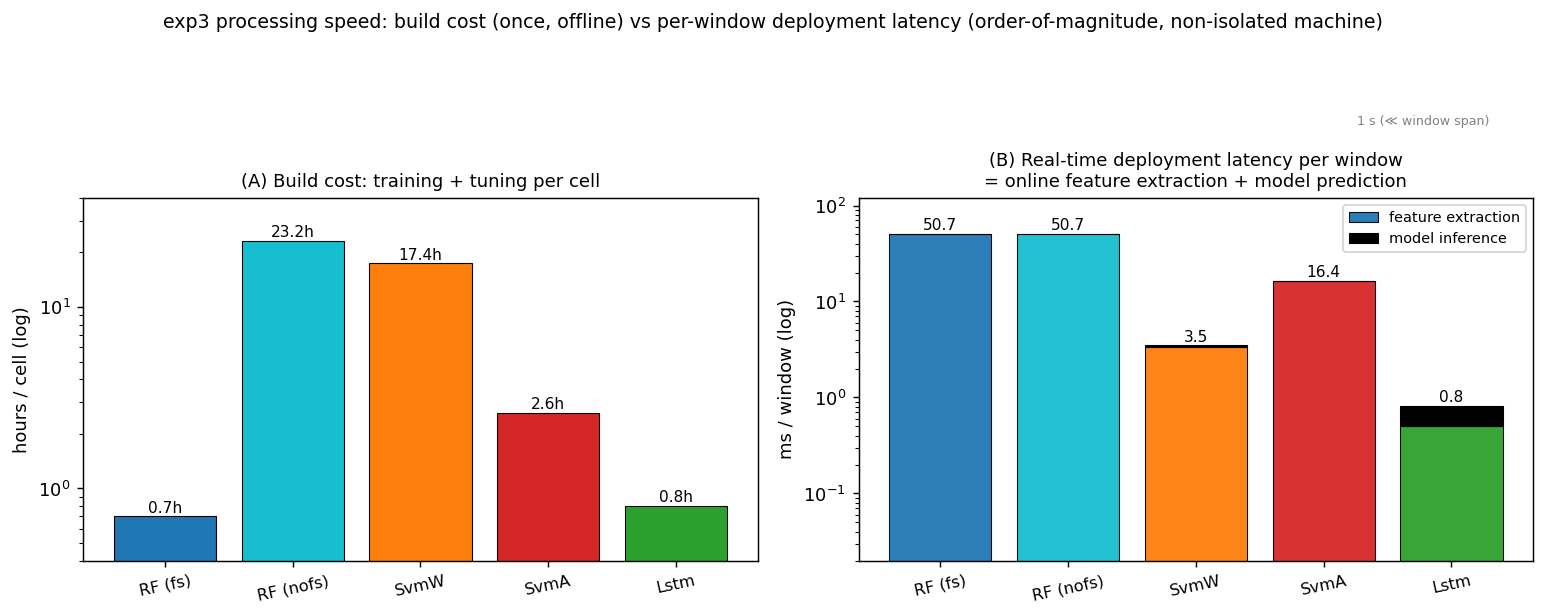
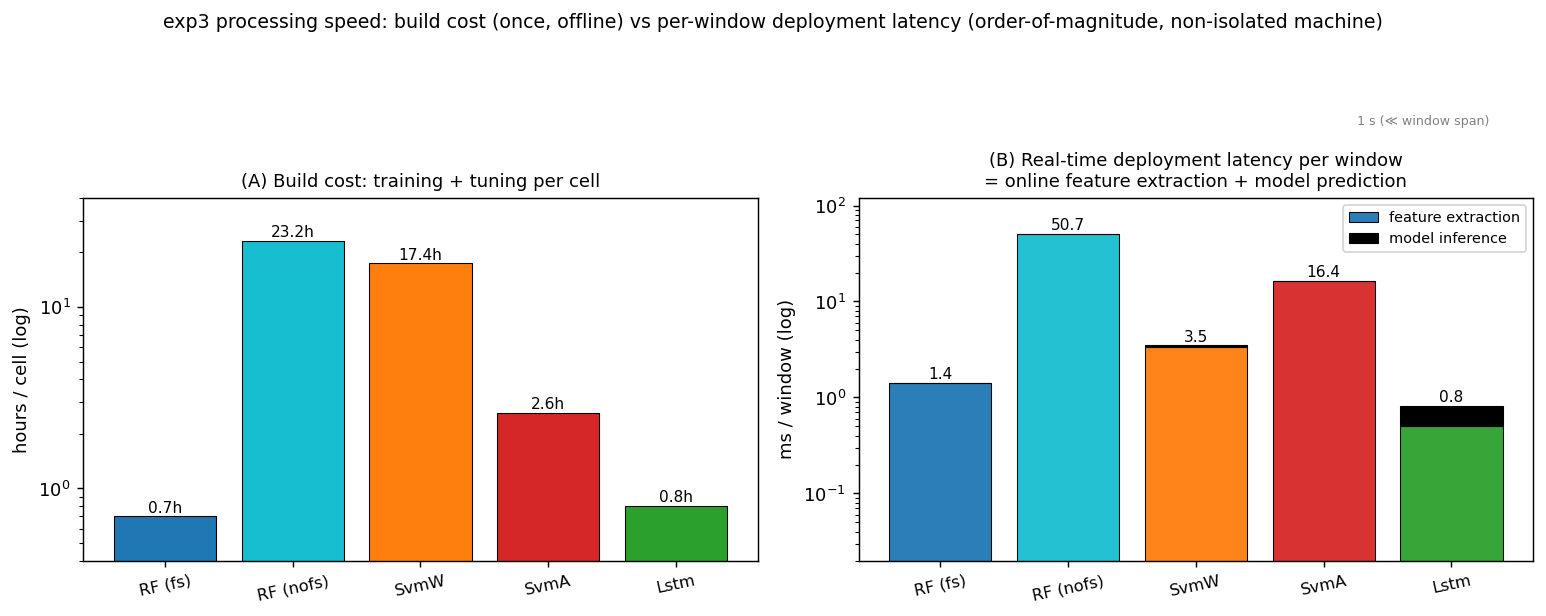
docs(exp3): record measurement environment, add RH850 estimate, fix RF-fs deployment latency
- Measurement environment: i9-12900HK / 64GB / RTX 3060 Laptop / Win11+WSL2 /
  Python 3.11.9 + TF 2.13.1; all §2 timings are hardware-specific.
- RH850 (Renesas) rough extrapolation (×100-1000 slowdown): Lstm/RF-fs/SvmW
  plausibly real-time, SvmA/RF-nofs likely exceed a few-second window; model
  size (300-tree RF, 1750-SV SVM) is a separate flash/RAM blocker.
- Correction (advisor's point): a deployed RF-fs extracts only its 10 fixed
  smooth features (~1-2 ms), NOT the full 165-feature set (~51 ms) — that full
  cost applies only at training. Verified the top-10 are all mean/std/pred-error
  (no O(n^2) Sample Entropy; entropy alone is 6.8 ms = 84% of the stat cost).
  RF-fs is now cheap on both axes but still 4th in Mixed accuracy, so Lstm
  Pareto-dominates it. Updates the end-to-end/tradeoff/RH850 tables and the plot.

Changed region(s): [[0.5589, 0.3393, 0.652, 0.6477]]

diff --git a/docs/experiments/results/exp3-analysis/c1_progress_summary.md b/docs/experiments/results/exp3-analysis/c1_progress_summary.md
@@ -48,6 +48,15 @@ above it); SvmA sits near the 0.5 line throughout.*
 Two cost axes are reported: **training/tuning cost** (the price of building each detector) and
 **inference latency** (the deployment-relevant per-window prediction speed).
 
+> **Measurement environment (all §2 timings are hardware-specific).** Laptop workstation — **CPU**
+> Intel Core i9-12900HK (14 cores / 20 threads, up to ~5 GHz, AVX2); **64 GB** RAM; **GPU** NVIDIA
+> RTX 3060 Laptop (6 GB, driver 596.08); **OS** Windows 11 (build 22631), with the GPU training jobs
+> (Lstm / TensorFlow, SvmA / cuML) run under WSL2. **Software** Python 3.11.9, numpy 1.26.4, scipy
+> 1.16.3, scikit-learn 1.5.2, pandas 2.2.3, TensorFlow 2.13.1. Training wall-times (2a) come from
+> mixed Windows-CPU (RF, SvmW) and WSL2-GPU (Lstm, SvmA) runs on a **shared, non-isolated** machine;
+> the inference / extraction micro-benchmarks (2b–2d) are **CPU single-thread**, with the Lstm forward
+> pass on CPU (CUDA disabled). All numbers are order-of-magnitude and would differ on other hardware.
+
 ### 2a. Training + tuning wall-time per cell (measured from the c1 run logs)
 
 Each cell is one seed × mode fit including its hyperparameter search (Optuna for RF/SvmW/Lstm, PSO
@@ -106,18 +115,25 @@ latency falls back toward 2b.)
 Composed from the per-signal extraction cost × the signals each method actually uses, plus its
 model inference:
 
-| Method | features extracted | **end-to-end ms / window** |
+| Method | features extracted at deployment | **end-to-end ms / window** |
 |---|---|---|
-| **RF (fs & nofs)** | full set (~5 signals statistical + 3 wavelet) | **~51** |
-| **SvmA** | 2 steering signals × statistical/entropy | **~16** |
+| **RF (nofs)** | full 165-feature set (5 signals statistical incl SampleEntropy + 3 wavelet) | **~51** |
+| **SvmA** | 2 steering signals × statistical/entropy (incl SampleEntropy) | **~16** |
 | **SvmW** | 1 steering-wheel signal × GHM wavelet | **~3.5** |
+| **RF (fs)** | only the 10 selected smooth features (~5 signals, no O(n²) entropy) | **~1–2** |
 | **Lstm** | light std/mean/pred-error (no entropy) + BiLSTM | **~0.8** |
 
-**This inverts the model-only ranking.** RF has the *fastest model* but the *slowest end-to-end*,
-because it must compute the whole 165-feature set — including the O(n²) entropy features — before it
-predicts, and RF-fs pays the same extraction cost as RF-nofs (feature selection happens after
-extraction). Lstm, whose features are light and whose sequence model is only 0.3 ms, is the fastest
-end-to-end.
+**The model-only ranking inverts — but only for RF-nofs.** RF-nofs has the fastest model yet the
+*slowest* end-to-end, because it must compute the whole 165-feature set (including the O(n²) Sample
+Entropy) before predicting. **RF-fs, by contrast, is fast end-to-end (~1–2 ms):** at deployment its
+10 features are already fixed from training, so it extracts *only those*, and the selected set is
+dominated by light smooth statistics — mean / std / prediction-error — that avoid the O(n²) entropy
+entirely (verified on the recorded `feature_meta` artifacts, where the top-10 are all
+`*_mean` / `*_std_dev` / `*_pred_error`). The ~51 ms full-extraction cost applies to RF-fs only
+during *training*, where all 165 features are computed and then the top-10 is selected. So **RF-fs
+and Lstm are the two cheapest end-to-end.** (Cost decomposition: Sample Entropy alone is 6.8 ms —
+~84 % of the 8.1 ms statistical-feature cost — while all the cheap moments/percentiles + one FFT
+total ~0.07 ms. Should a future selection pick an entropy feature, add ~6.8 ms per such feature.)
 
 ![Processing speed comparison](figures/c1_recorded/fig_processing_speed.png)
 
@@ -135,24 +151,61 @@ provisional at n=13):
 | **RF (nofs)** | **0.87 (1st)**\* | 23.2 | ~51 |
 | **Lstm** | 0.78 (2nd) | **0.8** | **~0.8** |
 | **SvmW** | 0.76 (3rd) | 17.4 | ~3.5 |
-| **RF (fs)** | 0.73 (4th) | 0.7 | ~51 |
+| **RF (fs)** | 0.73 (4th) | **0.7** | **~1–2** |
 | **SvmA** | 0.56 (5th) | 2.6 | ~16 |
 
 - **No method is ruled out for real-time use.** A KSS/DRT window spans seconds, so even the heaviest
-  end-to-end pipeline (RF, ~51 ms) is ~200× faster than real time.
-- **Lstm is the cost-efficient (Pareto) choice** — 2nd-highest Mixed AUROC at the **lowest build cost
-  and the lowest inference latency** of all five.
-- **RF-nofs buys the top accuracy at the highest cost on both axes** (23 h to build, ~51 ms/window to
-  run).
-- **RF-fs is dominated:** despite the cheapest build, it still pays the full ~51 ms extraction (it
-  computes all 165 features before selecting the top-10) yet is only 4th in Mixed accuracy — a small
-  model does not buy a fast detector.
-- **SvmW** trades a heavy build for light inference; **SvmA** is cheap-ish to run but lowest accuracy.
-- **Net:** processing speed favours **Lstm / SvmW at inference** and **RF-fs / Lstm at build time**;
-  RF's recorded accuracy edge (especially RF-nofs) comes at the highest cost on *both* axes.
+  end-to-end pipeline (RF-nofs, ~51 ms) is ~200× faster than real time.
+- **Lstm and RF-fs are the two cheapest end-to-end** (~0.8–2 ms); both build cheaply too (~0.8 / 0.7 h).
+- **Among these two, Lstm Pareto-dominates RF-fs:** at comparable cost it is 2nd in Mixed accuracy
+  versus RF-fs's 4th. RF-fs is *not* dominated on speed — its earlier "~51 ms" was a mistake (that is
+  the training-time full extraction; a deployed RF-fs extracts only its 10 fixed smooth features).
+- **RF-nofs buys the top accuracy at the highest cost on both axes** (23 h to build, ~51 ms/window),
+  because it keeps the whole feature set (including the O(n²) entropy features) at inference.
+- **SvmW** trades a heavy build (17 h) for light inference (~3.5 ms); **SvmA** is mid-cost but lowest
+  accuracy.
+- **Net:** on cost-efficiency the field is **Lstm ≳ RF-fs ≫ SvmW > SvmA**, with **RF-nofs paying the
+  most on both axes for its accuracy lead**. Which to field depends on how much the RF-nofs accuracy
+  margin is worth against ~30× the build cost and ~25–50× the inference cost of Lstm / RF-fs.
 
 **Caveats.** Training times are wall-clock from a shared, non-isolated machine (GPU/CPU contention),
 so they are order-of-magnitude. Model timings are CPU single-thread (Lstm via TF). Feature-extraction
 and end-to-end figures use a representative 300-sample window and the stated per-method signal
 counts, so they are estimates; a rigorous end-to-end benchmark on isolated hardware with the exact
 per-method signal set is a possible follow-up.
+
+### 2f. Estimated timing on the target microcontroller (Renesas RH850) — rough extrapolation
+
+The measurements above are on a laptop-class i9 + RTX 3060. The fielded target is a **Renesas RH850**
+automotive MCU, orders of magnitude slower for this numeric workload. Taking a representative core
+(e.g. an RH850/G4MH-class ~240 MHz single core with a single-precision FPU and no wide SIMD), scalar
+floating-point throughput is roughly **100–1000× below the i9** (≈20× from clock × ≈10–50× from the
+out-of-order execution, caches, and AVX2 / BLAS vectorisation the MCU lacks). Scaling the per-window
+end-to-end latency (§2d) by that band:
+
+| Method | desktop end-to-end | **RH850 estimate (×100–1000)** |
+|---|---|---|
+| **Lstm** | ~0.8 ms | **~0.1–0.8 s** |
+| **RF (fs)** | ~1–2 ms | **~0.1–2 s** |
+| **SvmW** | ~3.5 ms | **~0.4–3.5 s** |
+| **SvmA** | ~16 ms | **~1.6–16 s** |
+| **RF (nofs)** | ~51 ms | **~5–51 s** |
+
+Reading, against a window that spans a few seconds:
+
+- **Lstm, RF-fs and SvmW are plausibly real-time on RH850**; **SvmA and especially RF-nofs likely
+  exceed the window budget** (RF-nofs must compute the full 165-feature set, including the O(n²)
+  Sample Entropy) → not real-time without heavy optimisation.
+- **Model size is a separate blocker.** The 300-tree RF and the 1750-support-vector RBF-SVM are large
+  for RH850 flash / RAM and would need pruning / SV-reduction / fixed-point quantisation; the
+  BiLSTM-36 weights (~tens of KB) are the most MCU-friendly.
+- **First optimisation target:** the O(n²) Sample Entropy dominates the statistical-feature methods on
+  an MCU — replacing it (or the whole statistical set) with cheaper features would give the largest
+  win.
+
+**Caveat — these are extrapolations, not measurements.** Actual RH850 time depends on the exact device
+(clock, FPU presence, cache), a fixed-point-vs-float C reimplementation, the compiler, and the memory
+layout. A real figure needs profiling a C port on the target silicon (or a cycle-accurate simulator);
+the values above are only an order-of-magnitude feasibility guide. If the production design targets a
+more capable automotive SoC (e.g. R-Car) for the ML stage rather than the RH850 MCU, the budget is far
+looser and all four methods become comfortably real-time.
